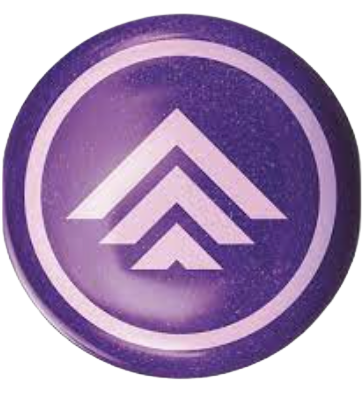
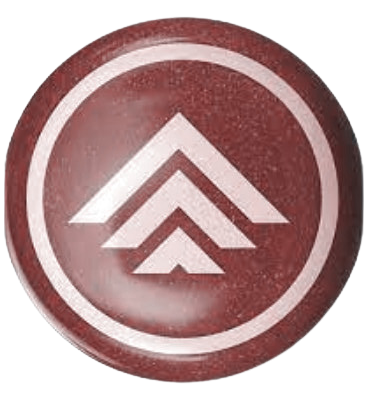
changed color of powerups

diff --git a/src/Graphics/Court.java b/src/Graphics/Court.java
@@ -363,7 +363,7 @@ public class Court extends JPanel implements Runnable {
 				dashCounter = -10;
 			}
 
-			if (keyControl.isPressed(KeyEvent.VK_SPACE) && shotCounter > 0 && ball.getDribbling()) {
+			if (keyControl.isPressed(KeyEvent.VK_SPACE) && shotCounter > 0 && ball!= null &&ball.getDribbling()) {
 
 				if (me.getEnergy() > 0) {
 					timeCounter = 0;
@@ -477,7 +477,7 @@ public class Court extends JPanel implements Runnable {
 	//				me.spawnPowerup();
 				}
 				//
-				if (powerCounter % 1200 == 0) {
+				if (powerCounter % 500 == 0) {
 					randX = me.getPowerLoc();
 					me.spawnPowerup();
 					//
